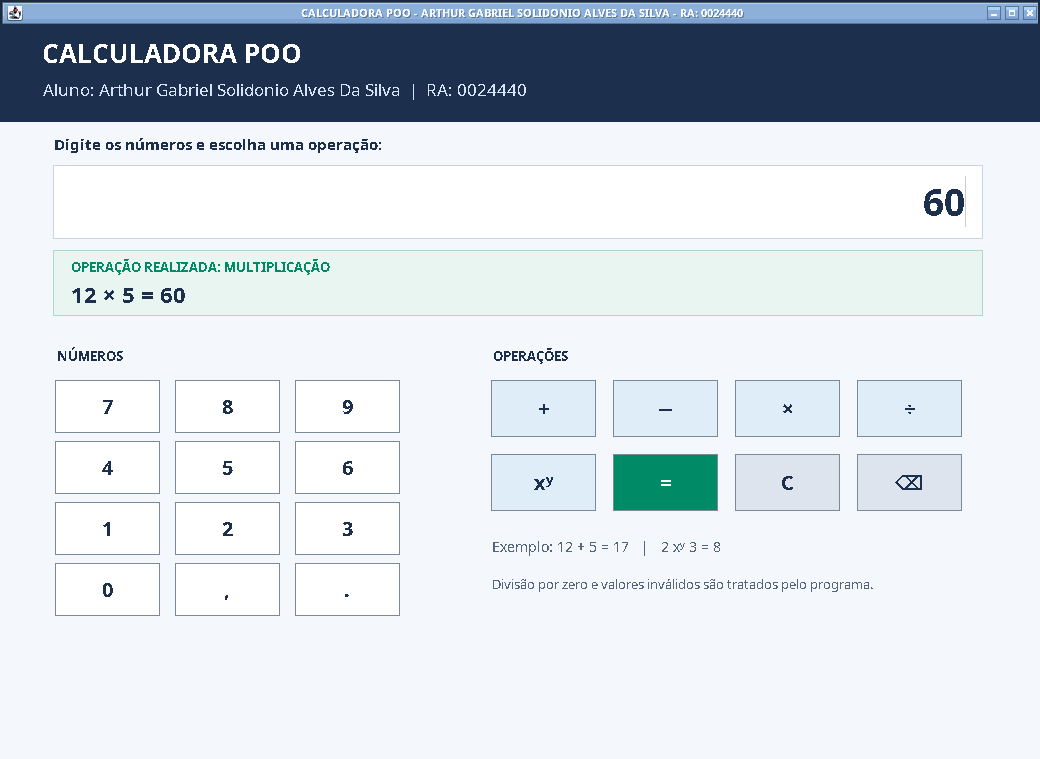
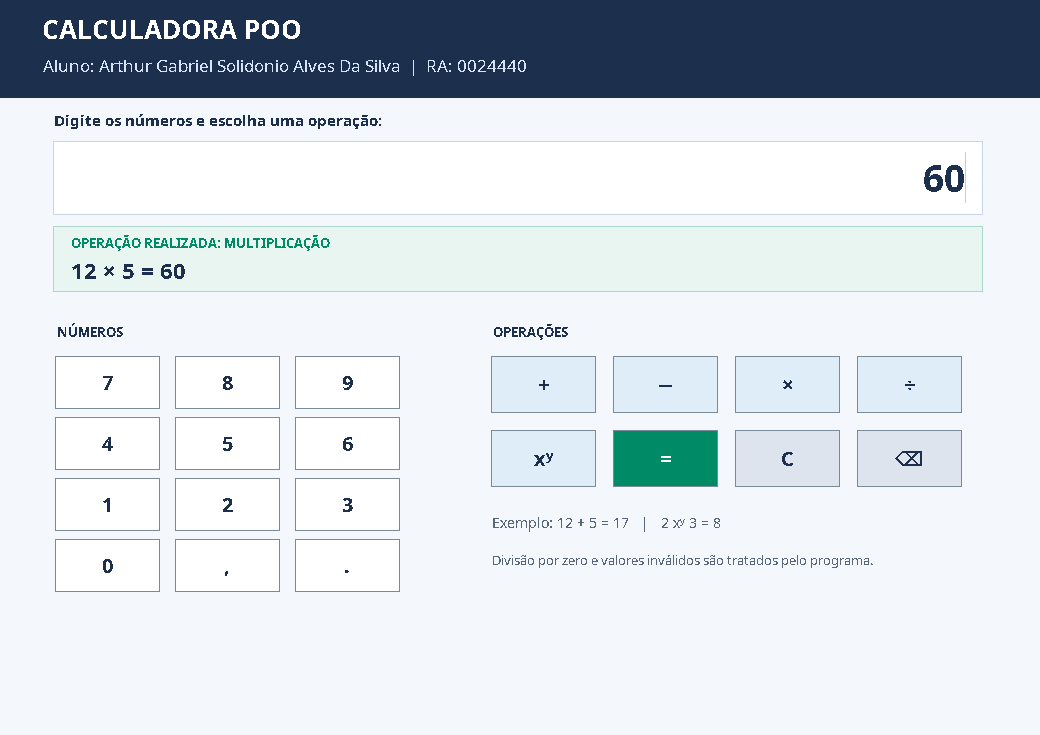
Simplificar texto do trabalho e atualizar print sem barra superior; manter print com TITLE FORM

diff --git a/README.md b/README.md
@@ -6,9 +6,9 @@
 
 ## Sobre o trabalho
 
-Neste trabalho, continuei a calculadora em Java que começamos no laboratório do dia 09/11. Mantive a classe `Calc`, a janela `JFrame`, o campo de resultado e os botões numéricos que usamos na aula. Corrigi a parte dos cálculos e completei as cinco operações pedidas pelo professor.
+Neste trabalho, continuei a calculadora em Java iniciada no laboratório do dia 09/11. Mantive a estrutura usada na aula e completei as cinco operações pedidas pelo professor. Também ajustei os cálculos para a calculadora funcionar corretamente.
 
-Também coloquei meu nome completo e RA no título da janela.
+Meu nome completo e RA estão no título da janela, conforme pedido na atividade.
 
 ## Operações da calculadora
 
@@ -22,7 +22,9 @@ A calculadora permite digitar números, usar vírgula ou ponto decimal, limpar a
 
 ## Print da tela
 
-![Calculadora feita a partir do código do laboratório, com o nome e o RA na barra de título](Calculadora/prints/tela_calculadora.png)
+![Calculadora em Java, com nome e RA no cabeçalho](Calculadora/prints/tela_calculadora.png)
+
+O [print completo com o título da janela](Calculadora/prints/tela_calculadora_com_titulo.png) também está disponível para conferir o TITLE FORM.
 
 ## Como executar
 

diff --git a/Calculadora/README.md b/Calculadora/README.md
@@ -6,9 +6,9 @@
 
 ## Sobre o trabalho
 
-Neste trabalho, continuei a calculadora em Java que começamos no laboratório do dia 09/11. Mantive a classe `Calc`, a janela `JFrame`, o campo de resultado e os botões numéricos que usamos na aula. Corrigi a parte dos cálculos e completei as cinco operações pedidas pelo professor.
+Neste trabalho, continuei a calculadora em Java iniciada no laboratório do dia 09/11. Mantive a estrutura usada na aula e completei as cinco operações pedidas pelo professor. Também ajustei os cálculos para a calculadora funcionar corretamente.
 
-Também coloquei meu nome completo e RA no título da janela.
+Meu nome completo e RA estão no título da janela, conforme pedido na atividade.
 
 ## Operações da calculadora
 
@@ -22,7 +22,9 @@ A calculadora permite digitar números, usar vírgula ou ponto decimal, limpar a
 
 ## Print da tela
 
-![Calculadora feita a partir do código do laboratório, com o nome e o RA na barra de título](prints/tela_calculadora.png)
+![Calculadora em Java, com nome e RA no cabeçalho](prints/tela_calculadora.png)
+
+O [print completo com o título da janela](prints/tela_calculadora_com_titulo.png) também está disponível para conferir o TITLE FORM.
 
 ## Como executar
 
